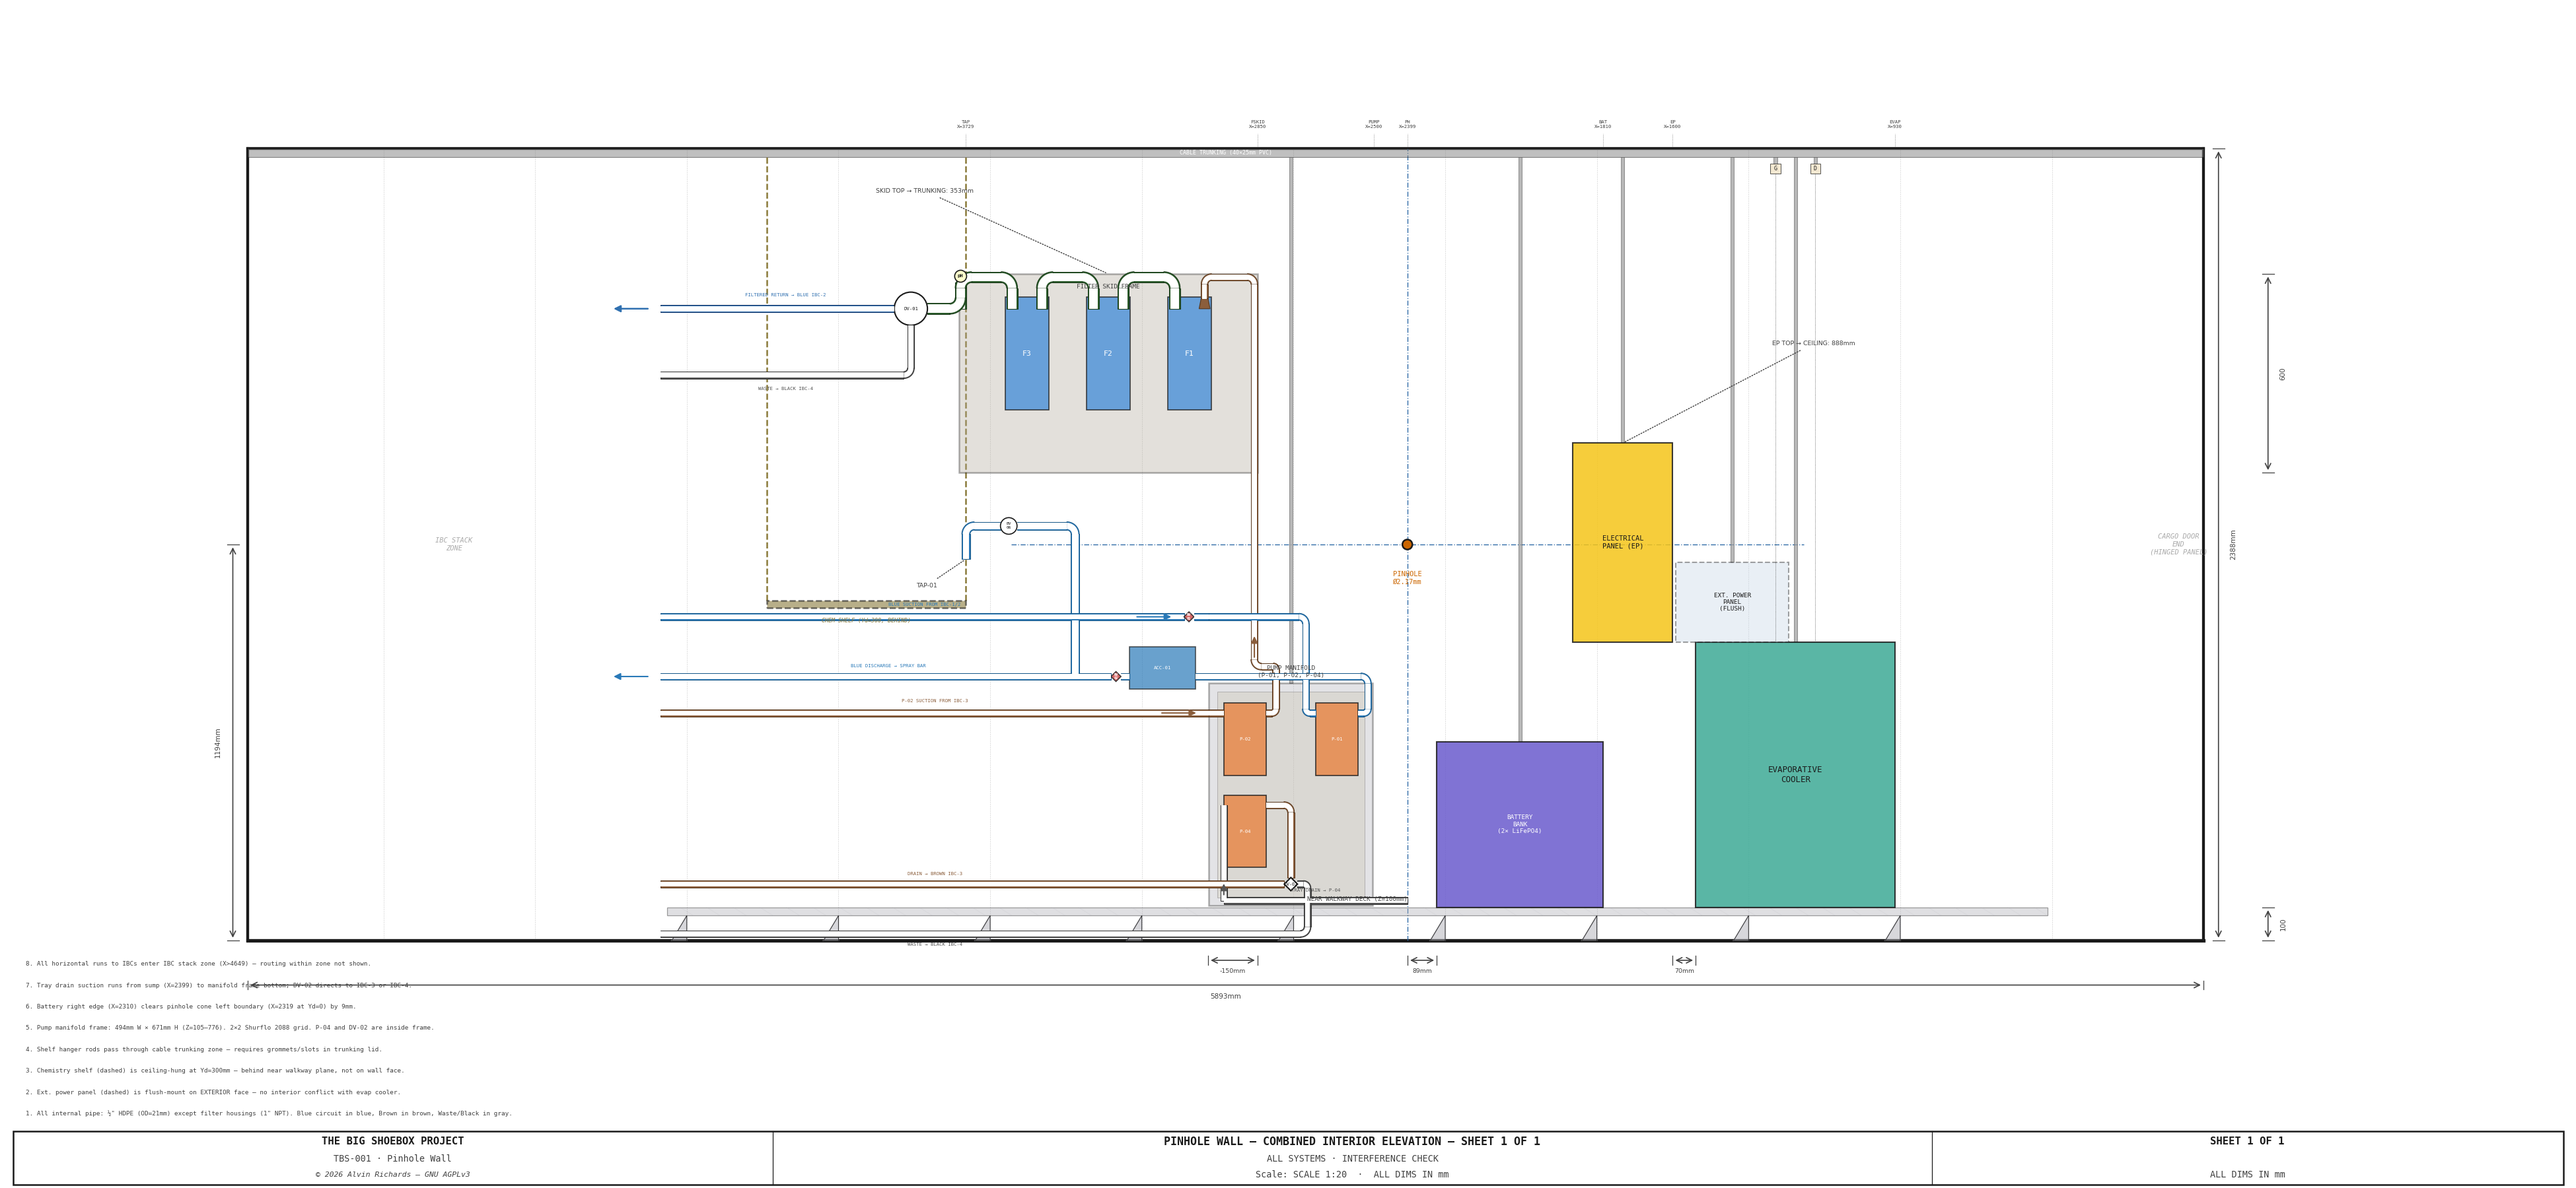
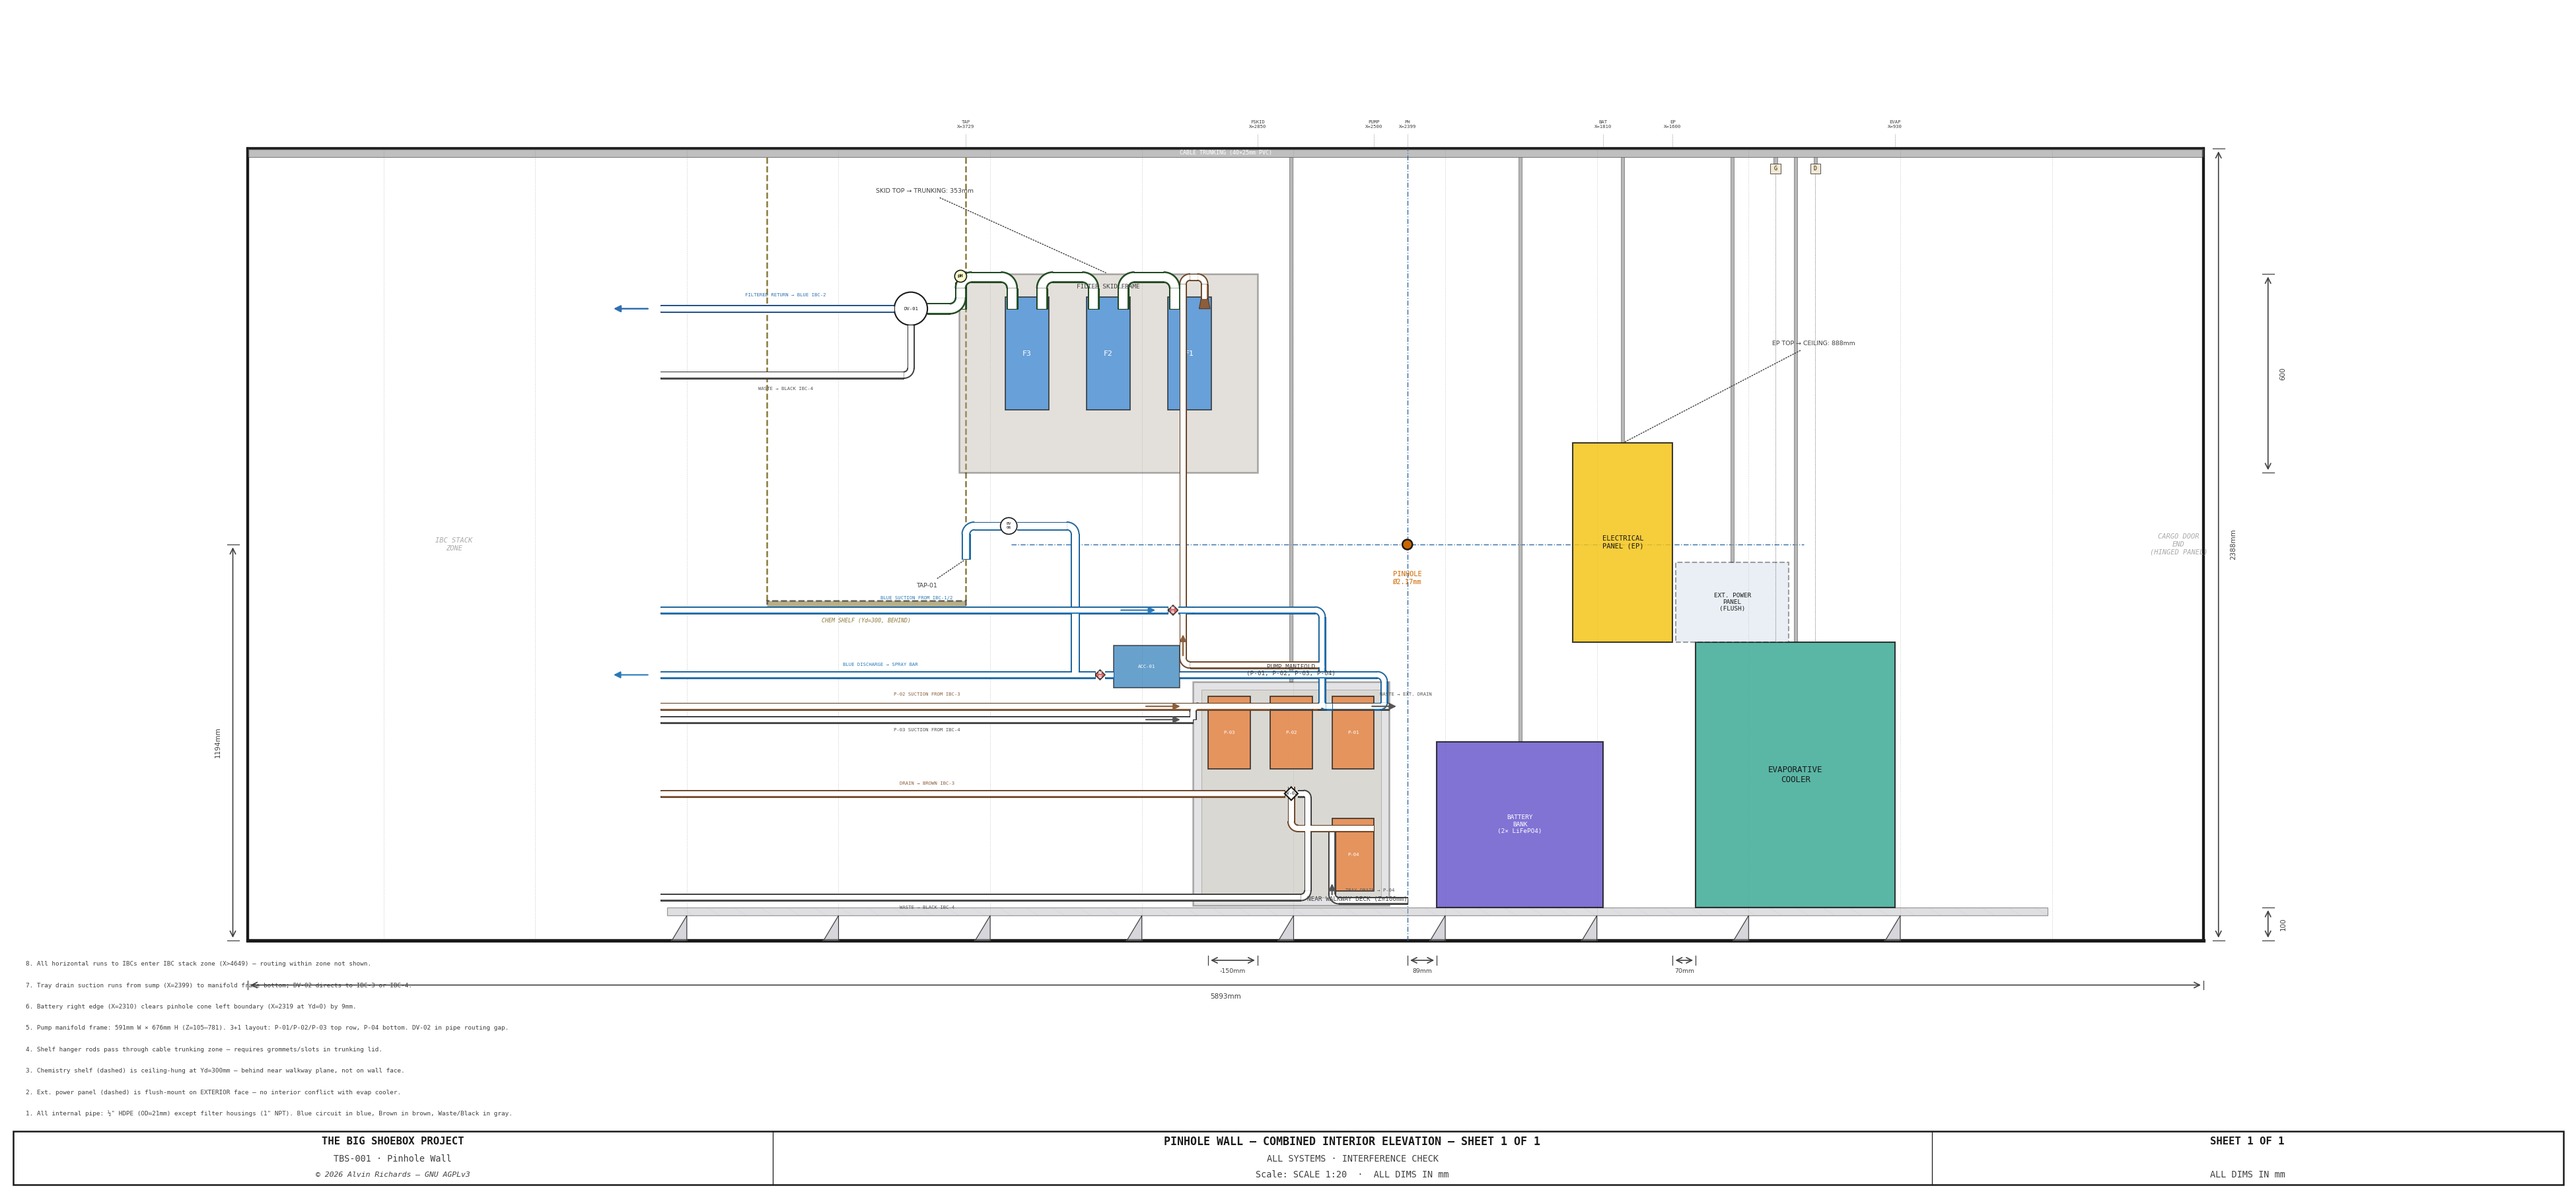
Fix P-04 riser crossing split and separate P-03/P-02 suction lines
Remove incorrect crossing split on P-04 IN riser — the DV-02 Brown
output at Z=443 doesn't cross the riser at X=2503 in the 3+1 layout.
Combined tray drain horizontal and riser into single draw_pipe_path
for a proper elbow.

Offset P-03 Black suction 40mm below P-02 Brown suction to prevent
overlap — both top-row pumps share the same port Z but need separate
visible pipe runs from the IBC zone. Added vertical jog at frame edge
to reconnect to port height.

Changed region(s): [[0.2482, 0.4978, 0.5585, 0.7778], [0.4654, 0.2178, 0.4964, 0.2489], [0.3413, 0.6533, 0.3723, 0.6844]]

diff --git a/generate_pinhole_wall_elevation.py b/generate_pinhole_wall_elevation.py
@@ -50,36 +50,45 @@ from tbs_title_block import title_block
 
 # ── Local constants (computed from tbs_constants) ────────────────────────────
 HEADER_Z = FILT_HEAD_Z + 60          # 2000mm — filter header pipe Z
-P02_X = 2750                          # pump P-02 center X (from filter skid diagram)
-RISER_X = P02_X + 110                 # supply riser X
+RISER_X = None  # set after PM_FRAME_R is computed (depends on frame width)
 PH_TEST_X = F3_X + 200               # 3745mm — pH test point X
 DV01_X = PH_TEST_X + 150             # 3895mm — diverter valve X
 DV01_R = 50                           # DV-01 body radius
 
-# ── Pump manifold frame constants (finalized layout, matching pump manifold diagram) ──
+# ── Pump manifold frame constants ──
+# Layout: 3 pumps (P-01, P-02, P-03) side by side in top row,
+#         P-04 alone in bottom row, 150mm pipe routing gap between rows.
 PM_ANGLE = 25            # 25×25mm SHS frame member width
 PM_PUMP_W = 127          # Shurflo 2088 body width (mm), includes port threads
 PM_PUMP_H = 218          # Shurflo 2088 body height (mm)
-PM_GAP_X = 150           # gap between left and right pump columns
+PM_GAP_X = 60            # gap between pumps horizontally
 PM_MARGIN_X = 20         # margin from frame inner edge to pump body
-PM_FRAME_W = 2 * PM_ANGLE + 2 * PM_MARGIN_X + 2 * PM_PUMP_W + PM_GAP_X  # 494mm
-PM_FRAME_X = PUMP_X + (PUMP_W - PM_FRAME_W) // 2  # centered within pump zone
+PM_MARGIN_Z = 20         # vertical margin inside frame
+PM_PIPE_GAP_Z = 150      # vertical gap between rows for pipe routing
+# Frame: 3 pumps wide, 2 rows + pipe routing gap tall
+PM_FRAME_W = (2 * PM_ANGLE + 2 * PM_MARGIN_X
+              + 3 * PM_PUMP_W + 2 * PM_GAP_X)             # 591mm
+PM_FRAME_X = PUMP_X + (PUMP_W - PM_FRAME_W) // 2          # centered (may extend past zone)
 PM_FRAME_Z_LO = 105      # just above walkway deck (Z=100)
-PM_PUMP_ZONE_Z = 200     # Z where pump grid starts
-PM_PUMP_MARGIN_Z = 20    # vertical margin inside pump zone
-PM_PUMP_GAP_Z = 60       # vertical gap between bottom and top pump rows
-PM_FRAME_Z_HI = (PM_PUMP_ZONE_Z + 2 * PM_PUMP_MARGIN_Z
-                 + 2 * PM_PUMP_H + PM_PUMP_GAP_Z + 40)  # 776mm
-PM_PUMP_Z_BOT = PM_PUMP_ZONE_Z + PM_PUMP_MARGIN_Z  # 220 — bottom row Z start
-PM_PUMP_Z_TOP = PM_PUMP_Z_BOT + PM_PUMP_H + PM_PUMP_GAP_Z  # 498 — top row Z start
-PM_P01_X = PM_FRAME_X + PM_ANGLE + PM_MARGIN_X          # left column pump X
-PM_P02_X = PM_P01_X + PM_PUMP_W + PM_GAP_X              # right column pump X
-PM_PORT_Z_TOP = PM_PUMP_Z_TOP + PM_PUMP_H - 20          # port Z, top row pumps
-PM_PORT_Z_BOT = PM_PUMP_Z_BOT + PM_PUMP_H - 20          # port Z, bottom row pumps
-PM_HEADER_Z_BLUE_SUC   = PM_PUMP_Z_TOP + PM_PUMP_H + 260  # 976mm — Blue suction
-PM_HEADER_Z_BLUE_DISCH = PM_FRAME_Z_HI + 20               # 796mm — Blue discharge
-PM_DV02_X = PM_FRAME_X + PM_FRAME_W // 2  # DV-02 center X, inside frame
-PM_DV02_Z = PM_FRAME_Z_LO + PM_ANGLE + 40 # DV-02 Z inside frame (~170mm)
+PM_FRAME_Z_HI = (PM_FRAME_Z_LO + 2 * PM_ANGLE
+                 + 2 * PM_MARGIN_Z + 2 * PM_PUMP_H + PM_PIPE_GAP_Z)  # 781mm
+# Bottom row (P-04): starts at frame bottom + angle + margin
+PM_PUMP_Z_BOT = PM_FRAME_Z_LO + PM_ANGLE + PM_MARGIN_Z   # 150mm
+# Top row (P-01, P-02, P-03): above bottom row + pump height + pipe gap
+PM_PUMP_Z_TOP = PM_PUMP_Z_BOT + PM_PUMP_H + PM_PIPE_GAP_Z  # 518mm
+# Pump X positions — top row: 3 pumps side by side
+PM_P01_X = PM_FRAME_X + PM_ANGLE + PM_MARGIN_X            # left pump
+PM_P02_X = PM_P01_X + PM_PUMP_W + PM_GAP_X                # center pump
+PM_P03_X = PM_P02_X + PM_PUMP_W + PM_GAP_X                # right pump
+PM_P04_X = PM_P01_X                                        # bottom row, left-aligned
+PM_PORT_OFF = 30         # port offset from top of pump body
+PM_PORT_Z_TOP = PM_PUMP_Z_TOP + PM_PUMP_H - PM_PORT_OFF   # port Z, top row pumps
+PM_PORT_Z_BOT = PM_PUMP_Z_BOT + PM_PUMP_H - PM_PORT_OFF   # port Z, bottom row pumps
+PM_HEADER_Z_BLUE_SUC   = PM_PUMP_Z_TOP + PM_PUMP_H + 260  # Blue suction header
+PM_HEADER_Z_BLUE_DISCH = PM_FRAME_Z_HI + 20               # Blue discharge header
+# DV-02 in pipe routing gap between rows
+PM_DV02_X = PM_FRAME_X + PM_FRAME_W // 2                  # centered in frame
+PM_DV02_Z = PM_PUMP_Z_BOT + PM_PUMP_H + PM_PIPE_GAP_Z // 2  # mid-gap
 PM_DV02_R = 20           # DV-02 symbol radius (mm)
 # ACC-01 accumulator: 200×127mm, mounted right of frame
 PM_ACC_W = 200
@@ -409,7 +418,7 @@ ax.text(sx(PH_X), sz(PH_H - 80), "PINHOLE\nØ2.17mm",
         ha="center", va="top", fontsize=5, color=C_PINHOLE_EQ,
         zorder=10, **FONT)
 
-# ── Pump manifold (finalized 2×2 grid layout) ────────────────────────────
+# ── Pump manifold (3+1 layout: P-01/P-02/P-03 top row, P-04 bottom) ────
 # Frame outline (25×25mm SHS perimeter)
 PM_FRAME_H = PM_FRAME_Z_HI - PM_FRAME_Z_LO
 equip_block(PM_FRAME_X, PM_FRAME_Z_LO, PM_FRAME_W, PM_FRAME_H,
@@ -420,13 +429,12 @@ equip_block(PM_FRAME_X + PM_ANGLE, PM_FRAME_Z_LO + PM_ANGLE,
             PM_FRAME_W - 2 * PM_ANGLE, PM_FRAME_H - 2 * PM_ANGLE,
             "", "#D4C8A0", lw=0.5, zorder=3, alpha=0.3)
 
-# 3 pump bodies (P-03 relocated to IBC corridor)
-# Top row: P-01 (left col), P-02 (right col)
-# Bottom row: P-04 (right col only — left slot empty)
+# 4 pump bodies: top row P-01/P-02/P-03 side by side, bottom row P-04
 for (px, pz, plabel) in [
     (PM_P01_X, PM_PUMP_Z_TOP, "P-01"),
     (PM_P02_X, PM_PUMP_Z_TOP, "P-02"),
-    (PM_P02_X, PM_PUMP_Z_BOT, "P-04"),
+    (PM_P03_X, PM_PUMP_Z_TOP, "P-03"),
+    (PM_P04_X, PM_PUMP_Z_BOT, "P-04"),
 ]:
     equip_block(px, pz, PM_PUMP_W, PM_PUMP_H,
                 plabel, C_PUMP, lw=0.8, zorder=6, alpha=0.85,
@@ -434,7 +442,7 @@ for (px, pz, plabel) in [
 
 # Frame label
 ax.text(sx(PM_FRAME_X + PM_FRAME_W / 2), sz(PM_FRAME_Z_HI + 15),
-        "PUMP MANIFOLD\n(P-01, P-02, P-04)", ha="center", va="bottom",
+        "PUMP MANIFOLD\n(P-01, P-02, P-03, P-04)", ha="center", va="bottom",
         fontsize=4.5, color=C_DIM, zorder=10, **FONT)
 
 # ACC-01 accumulator (blue rectangle, right of frame)
@@ -527,17 +535,19 @@ ax.text(sx(DV01_X), sz(PORT_Z), "DV-01",
 # ═══════════════════════════════════════════════════════════════════════════
 IBC_PIPE_EXIT_X = ZONE_R_START          # pipes disappear into IBC stack zone
 PM_FRAME_R = PM_FRAME_X + PM_FRAME_W    # right edge of manifold frame (LEFT in drawing)
+RISER_X = PM_FRAME_R + 30               # Brown riser X, just right of frame
 
 # ── Pump port positions (matching pump manifold detail diagram) ────────────
 # Ports are 30mm below top of each pump body.
 # IN port on right edge (higher X = LEFT in drawing),
 # OUT on left edge (lower X = RIGHT in drawing).
-PM_PORT_OFF = 30
 p01_in_x  = PM_P01_X + PM_PUMP_W;  p01_out_x = PM_P01_X
-p01_port_z = PM_PUMP_Z_TOP + PM_PUMP_H - PM_PORT_OFF
+p01_port_z = PM_PORT_Z_TOP
 p02_in_x  = PM_P02_X + PM_PUMP_W;  p02_out_x = PM_P02_X
-p02_port_z = PM_PUMP_Z_TOP + PM_PUMP_H - PM_PORT_OFF
-p04_in_x  = PM_P02_X + PM_PUMP_W;  p04_out_x = PM_P02_X
+p02_port_z = PM_PORT_Z_TOP
+p03_in_x  = PM_P03_X + PM_PUMP_W;  p03_out_x = PM_P03_X
+p03_port_z = PM_PORT_Z_TOP
+p04_in_x  = PM_P04_X + PM_PUMP_W;  p04_out_x = PM_P04_X
 p04_port_z = PM_PUMP_Z_BOT + PM_PUMP_H - PM_PORT_OFF
 
 # Elbow offset for internal pipes (small at overview scale)
@@ -675,31 +685,53 @@ ax.annotate("", xy=(sx(RISER_X), sz(RISER_ENTRY_Z + 100)),
             xytext=(sx(RISER_X), sz(RISER_ENTRY_Z + 20)),
             arrowprops=dict(arrowstyle="-|>", color=C_BROWN, lw=1.0), zorder=10)
 
-# (P-03 relocated to IBC corridor — no waste pipes on manifold)
+# ════════════════════════════════════════════════════════════════════════════
+# P-03 WASTE EVACUATION: IBC-4 → P-03 → external drain port
+# ════════════════════════════════════════════════════════════════════════════
+# Suction: IBC-4 (Black) → into frame → P-03 IN
+# Offset 40mm below P-02 Brown suction to avoid overlap (both top-row pumps)
+P03_SUC_Z = p03_port_z - 40  # external run Z, below Brown suction at p02_port_z
+draw_pipe_path(ax,
+    [IBC_PIPE_EXIT_X, PM_FRAME_R],
+    [P03_SUC_Z, P03_SUC_Z],
+    OD_H, WALL_H, fc=C_BLACK_SYS, ec=C_BLACK_EC, bore_fc="white", zorder=Z_BLACK)
+ax.annotate("", xy=(sx(PM_FRAME_R + 30), sz(P03_SUC_Z)),
+            xytext=(sx(PM_FRAME_R + 150), sz(P03_SUC_Z)),
+            arrowprops=dict(arrowstyle="-|>", color=C_BLACK_SYS, lw=1.0), zorder=10)
+ax.text(sx((IBC_PIPE_EXIT_X + PM_FRAME_R) / 2), sz(P03_SUC_Z - 25),
+        "P-03 SUCTION FROM IBC-4", ha="center", va="top",
+        fontsize=3.5, color=C_BLACK_SYS, zorder=10, **FONT)
+# 1/2": frame edge → jog up to port Z → P-03 IN
+draw_pipe_path(ax,
+    [PM_FRAME_R, PM_FRAME_R, p03_in_x],
+    [P03_SUC_Z, p03_port_z, p03_port_z],
+    OD_H, WALL_H, fc=C_BLACK_SYS, ec=C_BLACK_EC, bore_fc="white", zorder=Z_BLACK)
+
+# P-03 OUT → left (toward cargo door) → external drain
+draw_pipe_path(ax,
+    [p03_out_x, PM_FRAME_X],
+    [p03_port_z, p03_port_z],
+    OD_H, WALL_H, fc=C_BLACK_SYS, ec=C_BLACK_EC, bore_fc="white", zorder=Z_BLACK)
+ax.annotate("", xy=(sx(PM_FRAME_X - 30), sz(p03_port_z)),
+            xytext=(sx(PM_FRAME_X + 60), sz(p03_port_z)),
+            arrowprops=dict(arrowstyle="-|>", color=C_BLACK_SYS, lw=1.0), zorder=10)
+ax.text(sx(PM_FRAME_X - 50), sz(p03_port_z + 30),
+        "WASTE → EXT. DRAIN", ha="center", va="bottom",
+        fontsize=3.5, color=C_BLACK_SYS, zorder=10, **FONT)
 
 # ════════════════════════════════════════════════════════════════════════════
 # P-04 TRAY DRAIN: sump → P-04 → DV-02 → IBC-3 / IBC-4
 # ════════════════════════════════════════════════════════════════════════════
 TRAY_DRAIN_Z = WALKWAY_H + 20   # 120mm — just above walkway deck
 TRAY_SUMP_X = PROC_TRAY_DRAIN_X  # 2399mm
-DV02_BROWN_Z = PM_DV02_Z         # 170mm — Brown exits left vertex at DV-02 center Z
-DV02_BLACK_Z = PM_DV02_Z - 150   # 20mm — Black drops 150mm south from right vertex
+DV02_BROWN_Z = PM_DV02_Z                          # Brown exits left vertex at DV-02 center Z
+DV02_BLACK_Z = PM_PUMP_Z_BOT - PM_MARGIN_Z        # Black routes below P-04 bottom row
 
-# Tray drain suction: 1/2" from sump → below P-04 column
+# Tray drain suction: 1/2" from sump → 90° up through frame to P-04 IN port
+# No crossings on this path in 3+1 layout (riser at X=2503 is left of DV-02 outputs)
 draw_pipe_path(ax,
-    [TRAY_SUMP_X, p04_in_x],
-    [TRAY_DRAIN_Z, TRAY_DRAIN_Z],
-    OD_H, WALL_H, fc=C_BLACK_SYS, ec=C_BLACK_EC, bore_fc="white", zorder=Z_BLACK)
-# 1/2" riser: deck level up through frame to P-04 IN port
-# Split at Brown DV-02→IBC-3 crossing (Z=DV02_BROWN_Z): Black breaks flush behind Brown
-_p04_gap = OD_H / 2.0  # break flush against Brown pipe OD
-draw_pipe_path(ax,
-    [p04_in_x, p04_in_x],
-    [TRAY_DRAIN_Z, DV02_BROWN_Z - _p04_gap],
-    OD_H, WALL_H, fc=C_BLACK_SYS, ec=C_BLACK_EC, bore_fc="white", zorder=Z_BLACK)
-draw_pipe_path(ax,
-    [p04_in_x, p04_in_x],
-    [DV02_BROWN_Z + _p04_gap, p04_port_z],
+    [TRAY_SUMP_X, p04_in_x, p04_in_x],
+    [TRAY_DRAIN_Z, TRAY_DRAIN_Z, p04_port_z],
     OD_H, WALL_H, fc=C_BLACK_SYS, ec=C_BLACK_EC, bore_fc="white", zorder=Z_BLACK)
 ax.annotate("", xy=(sx(p04_in_x), sz(TRAY_DRAIN_Z + 60)),
             xytext=(sx(p04_in_x), sz(TRAY_DRAIN_Z + 10)),
@@ -930,7 +962,7 @@ notes = [
     "2. Ext. power panel (dashed) is flush-mount on EXTERIOR face — no interior conflict with evap cooler.",
     "3. Chemistry shelf (dashed) is ceiling-hung at Yd=300mm — behind near walkway plane, not on wall face.",
     "4. Shelf hanger rods pass through cable trunking zone — requires grommets/slots in trunking lid.",
-    "5. Pump manifold frame: 494mm W × 671mm H (Z=105–776). 2×2 Shurflo 2088 grid. P-04 and DV-02 are inside frame.",
+    "5. Pump manifold frame: 591mm W × 676mm H (Z=105–781). 3+1 layout: P-01/P-02/P-03 top row, P-04 bottom. DV-02 in pipe routing gap.",
     "6. Battery right edge (X=2310) clears pinhole cone left boundary (X=2319 at Yd=0) by 9mm.",
     "7. Tray drain suction runs from sump (X=2399) to manifold frame bottom; DV-02 directs to IBC-3 or IBC-4.",
     "8. All horizontal runs to IBCs enter IBC stack zone (X>4649) — routing within zone not shown.",
